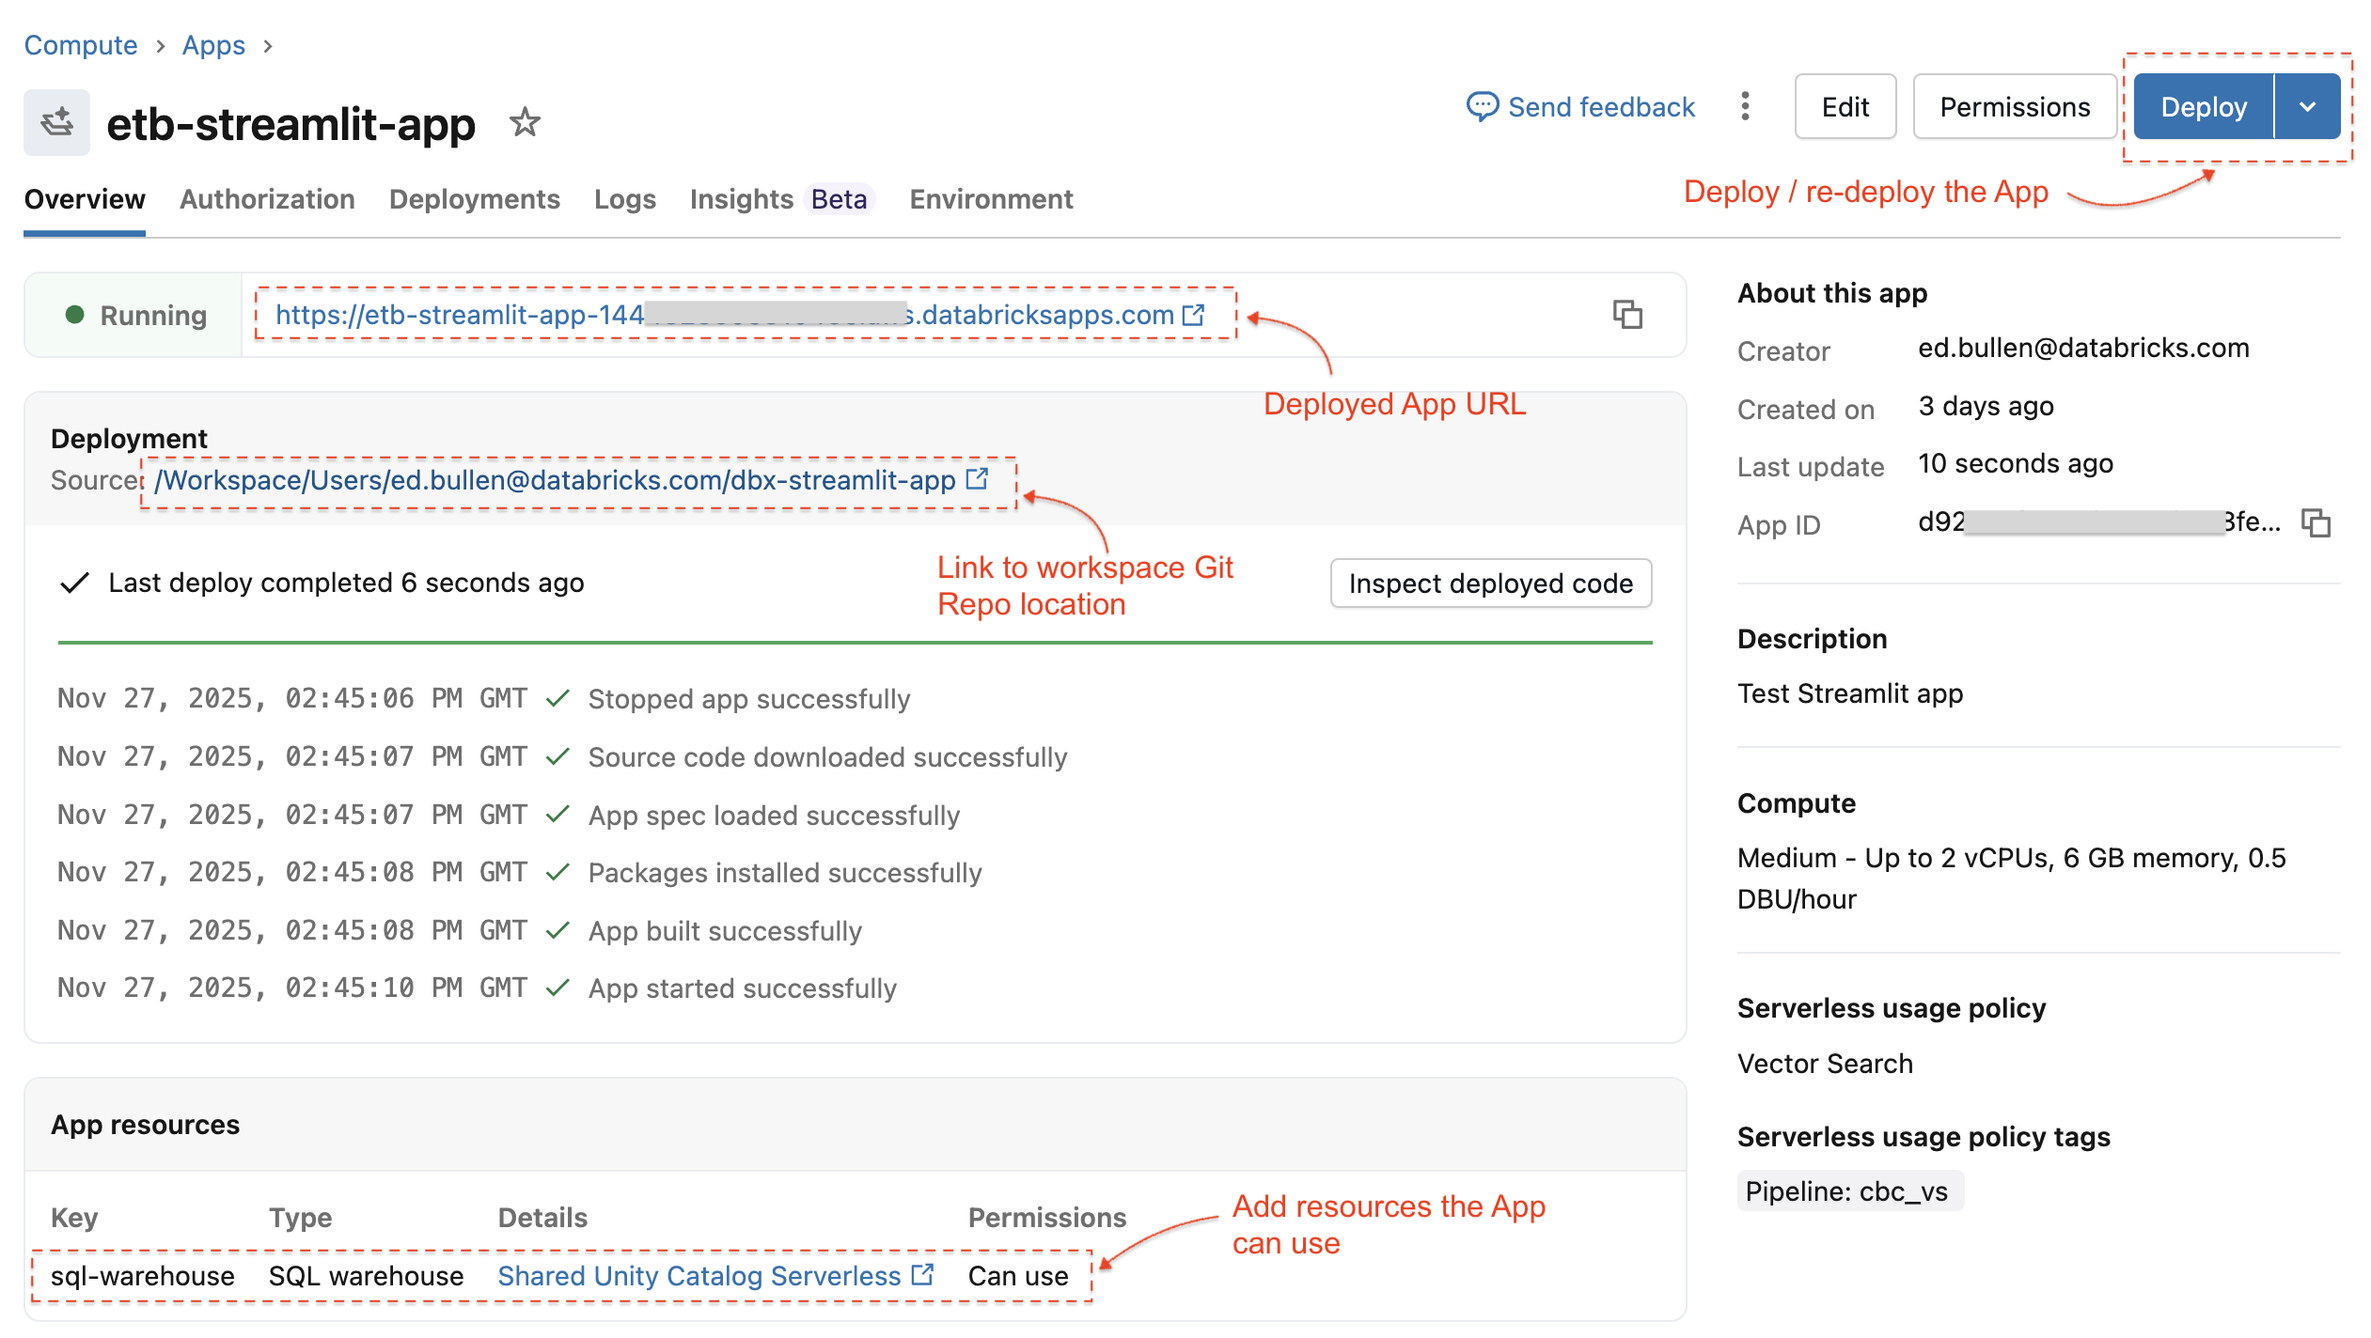
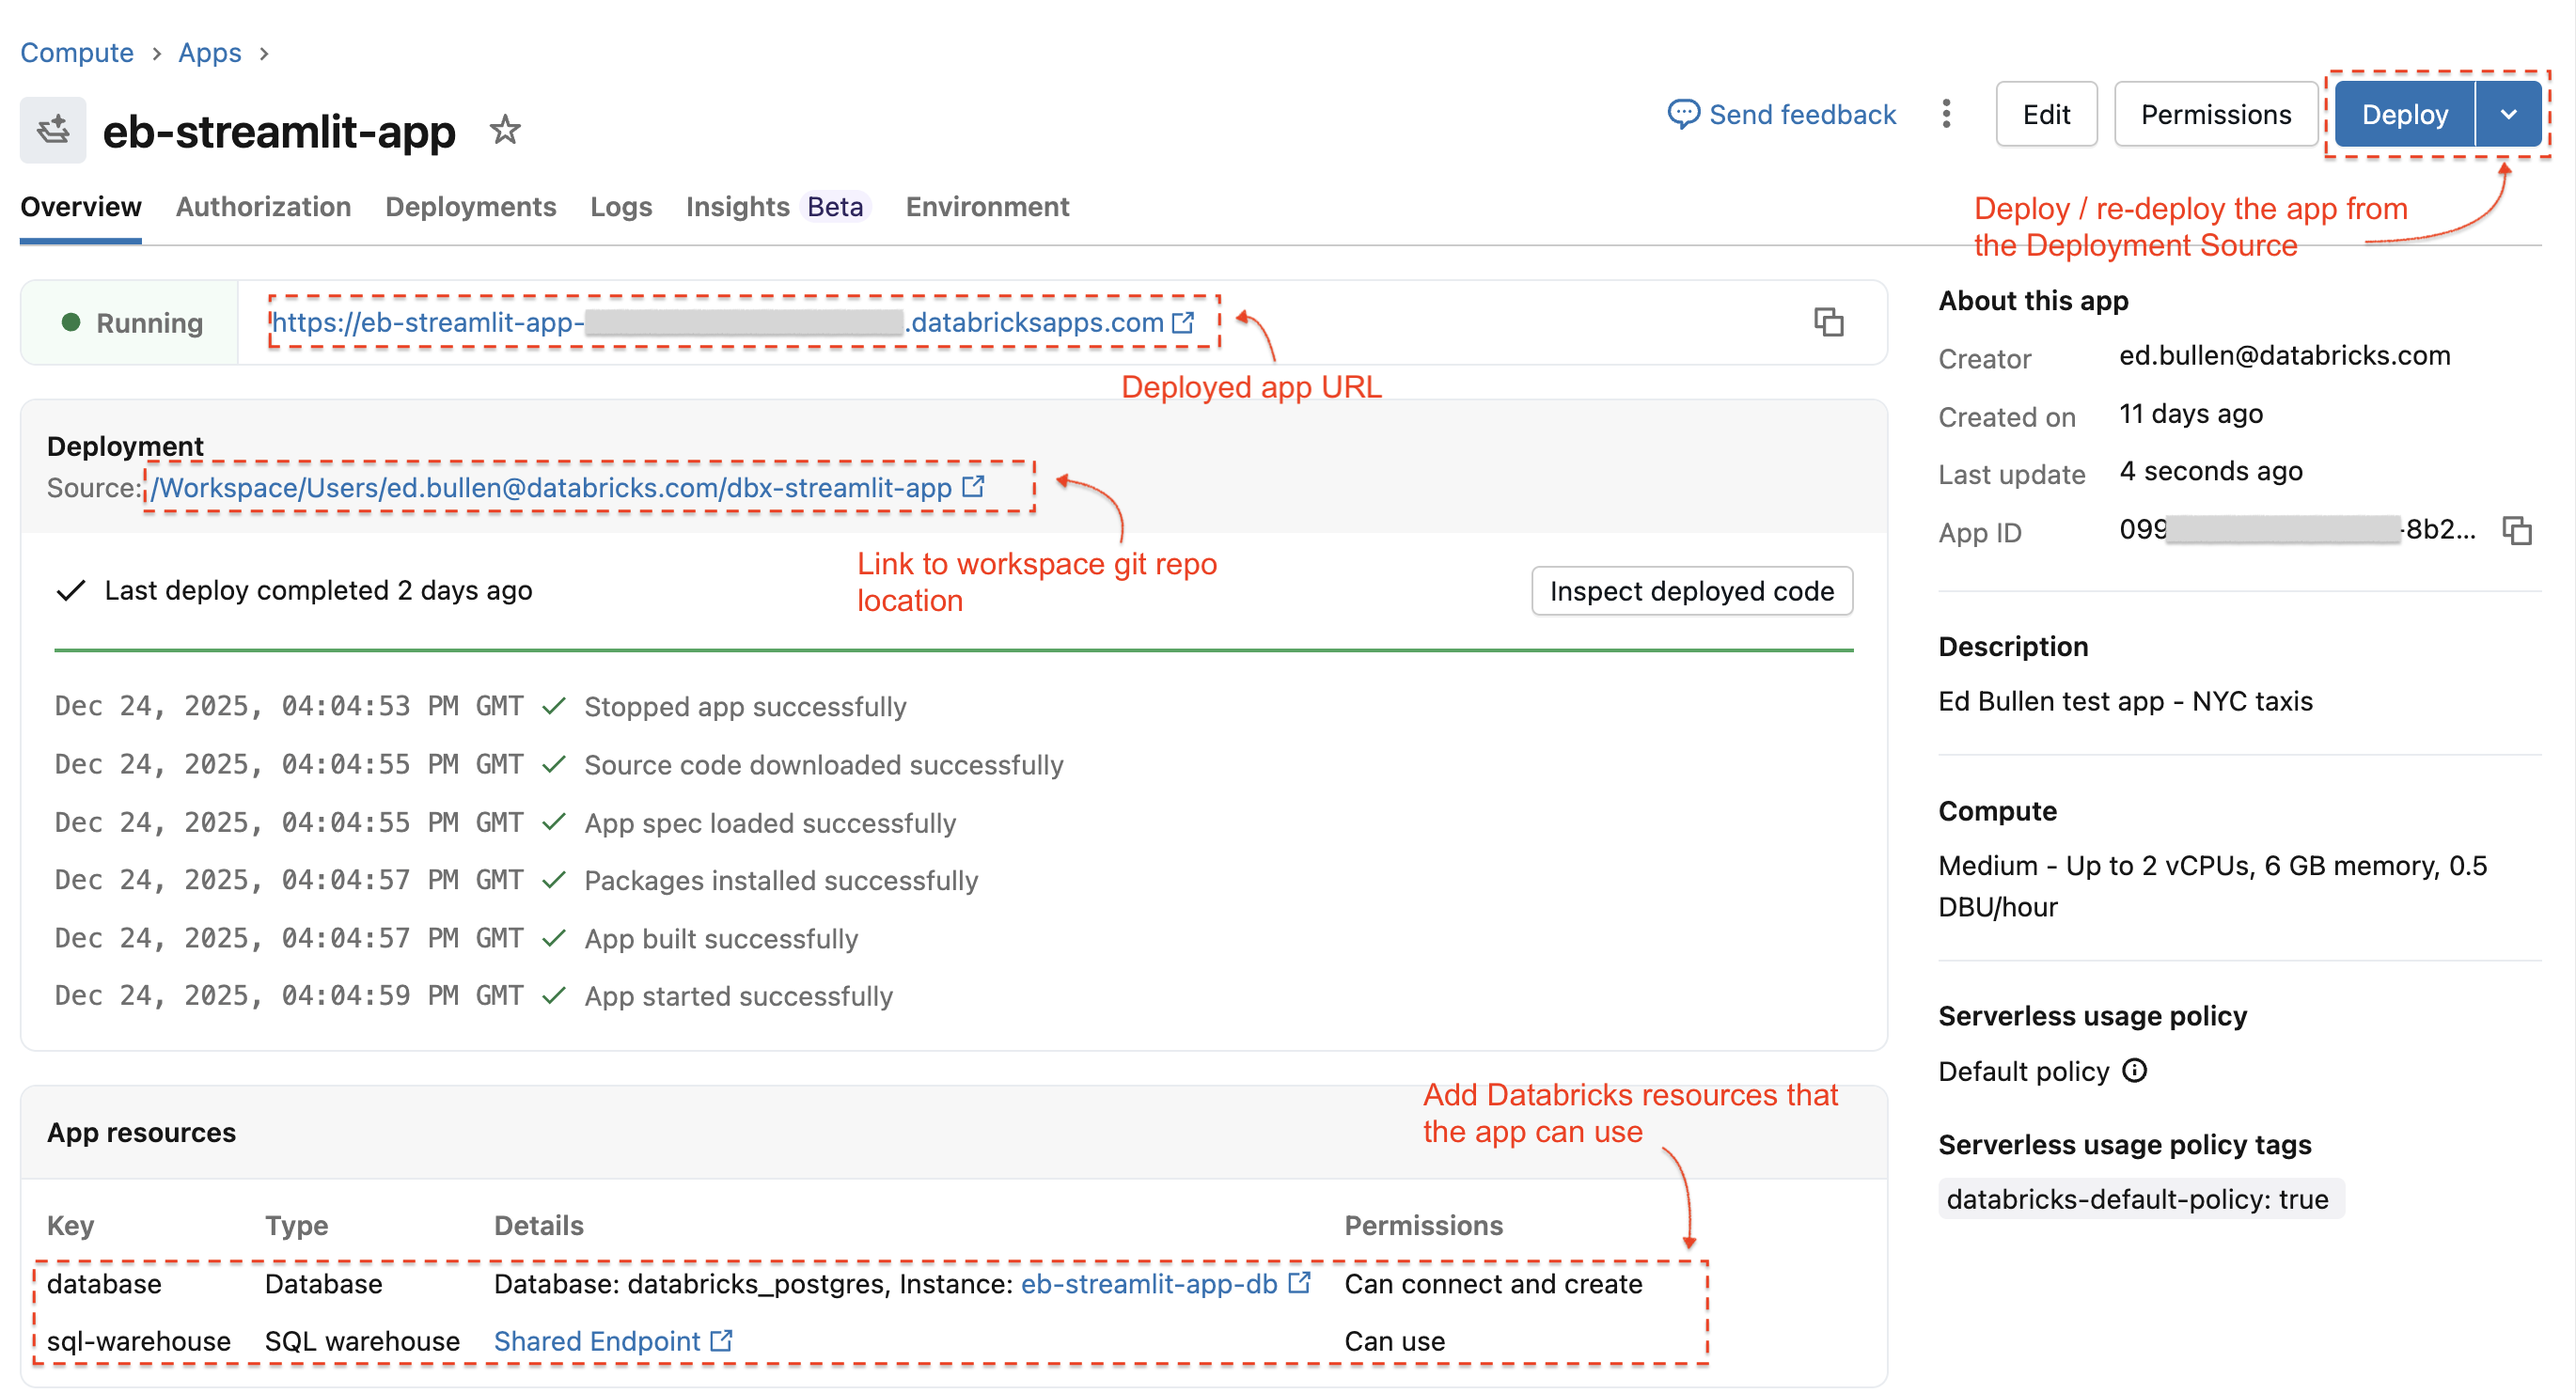
Lakebase connection framework in lakebase_psql.py

diff --git a/lakebase_psql.py b/lakebase_psql.py
@@ -1,0 +1,55 @@
+import os
+from functools import lru_cache
+from typing import Optional
+
+from dotenv import load_dotenv
+from sqlalchemy import create_engine, event, text
+from sqlalchemy.engine import Engine
+
+from databricks.sdk import WorkspaceClient
+
+# for local development - picks up variables from .env file
+load_dotenv()
+
+server_hostname = os.getenv("DATABRICKS_SERVER_HOSTNAME")
+workspace_client: WorkspaceClient = (
+    WorkspaceClient(host=f"https://{server_hostname}") if server_hostname else WorkspaceClient()
+)
+
+
+def provide_token(dialect, conn_rec, cargs, cparams) -> None:
+    """Inject an OAuth token on every new DB connection."""
+    cparams["password"] = workspace_client.config.oauth_token().access_token
+
+
+def _build_engine() -> Engine:
+    postgres_host = os.getenv("PGHOST")
+    postgres_database = os.getenv("PGDATABASE")
+    postgres_port = os.getenv("PGPORT", "5432")
+    postgres_username = os.getenv("PGUSER")
+
+    missing = [name for name, value in {"PGHOST": postgres_host, "PGDATABASE": postgres_database, "PGUSER": postgres_username}.items() if not value]
+    if missing:
+        raise RuntimeError(f"Missing required environment variables for Postgres connection: {', '.join(sorted(missing))}")
+
+    engine = create_engine(
+        f"postgresql+psycopg://{postgres_username}:@{postgres_host}:{postgres_port}/{postgres_database}",
+        pool_pre_ping=True,
+    )
+    event.listen(engine, "do_connect", provide_token)
+    return engine
+
+
+@lru_cache(maxsize=1)
+def get_engine() -> Engine:
+    """Return a cached SQLAlchemy engine for the Lakebase Postgres instance."""
+    return _build_engine()
+
+
+def get_version() -> Optional[str]:
+    """Test Postgres connectivity by returning the database version string and user for PG connect."""
+    engine = get_engine()
+    with engine.connect() as conn:
+        result = conn.execute(text("select version();"))
+        ver = result.scalar_one_or_none().split(" ")[:2] 
+        return ' '.join(ver) + " " + os.getenv("PGUSER")

diff --git a/app.py b/app.py
@@ -12,6 +12,9 @@ import streamlit as st
 import plotly.express as px
 import plotly.graph_objects as go
 
+# SQL Alchemy for lakebase  python operations
+from lakebase_psql import get_version
+
 # import custom functions
 from warehouse_queries import warehouse_fares_query
 from warehouse_queries import warehouse_dests_query
@@ -99,7 +102,7 @@ if __name__ == "__main__":
     table_name = st.sidebar.text_input("Table name", value=default_table)
 
     show_raw = st.sidebar.checkbox("Show aggregated data tables", value=False)
-    sankey_limit = st.sidebar.slider("Sankey links (top N pickup→dropoff pairs)", min_value=20, max_value=200, step=10, value=20)
+    #sankey_limit = st.sidebar.slider("Sankey links (top N pickup→dropoff pairs)", min_value=20, max_value=200, step=10, value=20)
 
     st.sidebar.markdown("---")
     st.sidebar.subheader("Warehouse Connection details")
@@ -109,6 +112,14 @@ if __name__ == "__main__":
         f"SQL Warehouse path: {warehouse_http_path or 'N/A'}",
         language="bash",
     )
+
+    st.sidebar.subheader("Lakebase Connection details")
+    postgres_connect_version = get_version()
+    st.sidebar.code(
+        postgres_connect_version,
+        language="bash",
+    )
+
     viewer_label = user_identity.get("email") or user_identity.get("username") or "Unknown user"
     st.sidebar.caption("Auth mode: App authorization")
     st.sidebar.caption(f"Viewer: {viewer_label}")
@@ -221,6 +232,9 @@ if __name__ == "__main__":
             st.plotly_chart(fig, use_container_width=True, config={"scrollZoom": True})
     else:
         st.subheader("Top pickup → dropoff ZIPs (Sankey)")
+
+        sankey_limit = st.slider("Sankey links (top N pickup→dropoff pairs)", min_value=20, max_value=200, step=10, value=20)
+
         if pickup_dest_df.empty:
             st.info("No destination data returned from the query.")
         else:

diff --git a/README.md b/README.md
@@ -4,9 +4,10 @@
 
 
 ### Deploy a Databricks App 
-+ Streamlit  
-+ Databricks SQL   
-+ App Authentication to Databricks Services  
++ Streamlit for rapid web-app development  
++ Databricks SQL Warehouse for analytic data queries
++ Lakebase Postgres Database for transactional data / config and logging data
++ App Authentication to Databricks Services (no key or token files to maintain) 
 
 ### Setup:  
 The following environment vars need to be set in app.yaml for when the app is deployed to Databricks workspace compute:  
@@ -17,13 +18,20 @@ The command to run the app is set in the app.yaml file:
 
 + `command: ["streamlit", "run", "app.py"]`   
 
-#### Configuring the SQL Warehouse and Access
+#### Configuring the SQL Warehouse and Lakebase Postgres DB
 
 `DATABRICKS_HTTP_PATH` must be custom configured in the `app.yaml` file to match the SQL Warehouse that will be used.   
 
+Create or identify a Lakbase Database instance (transaction database) to use for config data and logs.
+
 - Grant access to the App to use the SQL Warehouse.  
-- Edit, click "Next" to get to App resources, add SQL Warehouse 
-- select the SQL warehouse that is already  configured in the YAML file
+  - Edit, click "Next" to get to App resources, add SQL Warehouse 
+  - select the SQL warehouse that is already  configured in the YAML file 
+- Grant access to the App to use the Lakebase database (see [instructions](https://docs.databricks.com/aws/en/dev-tools/databricks-apps/lakebase#add-a-database-resource)).  
+    - Choose the default `databricks_postgres` database and use the  *resource key* `database`. 
+    - From the linked doc: *Databricks creates a PostgreSQL role in the selected database instance. The role name matches the service principal's client ID*
+    - From the linked doc: *Databricks grants the service principal CONNECT and CREATE privileges on the selected database.*
+
 
 ### Running Locally for Development and Testing
 
@@ -33,6 +41,10 @@ The command to run the app is set in the app.yaml file:
 # Workspace Web address and path to SQL Warehouse
 DATABRICKS_SERVER_HOSTNAME=<myworkspace>.cloud.databricks.com  # No `https` prefix or trailing `/`  
 DATABRICKS_HTTP_PATH=/sql/1.0/warehouses/################
+# Lakebase postgres instance 
+PGHOST=instance-########-####-####-####-############.database.cloud.databricks.com
+PGDATABASE=databricks_postgres
+PGUSER=<youemail@you.com>  # this is the email for your local operations that you OAUTH to the DBX env with (step 2)
 
 # Stub the Databricks SSO user-id details
 LOCAL_DEV_EMAIL=dummy@email.com
@@ -41,12 +53,14 @@ LOCAL_DEV_EMAIL=dummy@email.com
 - Make sure the .env file is not committed in the source code repo
 
 
-2. Authenticate to the Databricks Workspace where the SQL Warehouse is running.  
+2. Authenticate to the Databricks Workspace where the SQL Warehouse and Lakebases Database is running.  
 
 - Use [U2M Auth with the Databricks CLI](https://docs.databricks.com/aws/en/dev-tools/cli/authentication#oauth-user-to-machine-u2m-authentication).  
 
 ```
 # Authenticate to a profile configured in ~/.databrickscfg
+databricks auth profiles # list profiles
+
 databricks auth login -p my_profile_name
 ```
 
